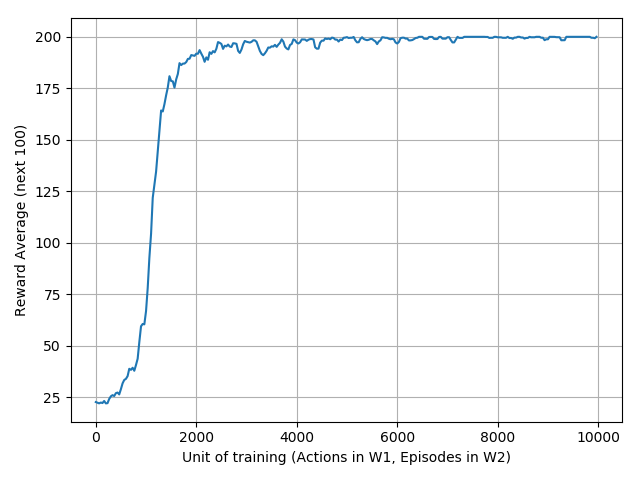
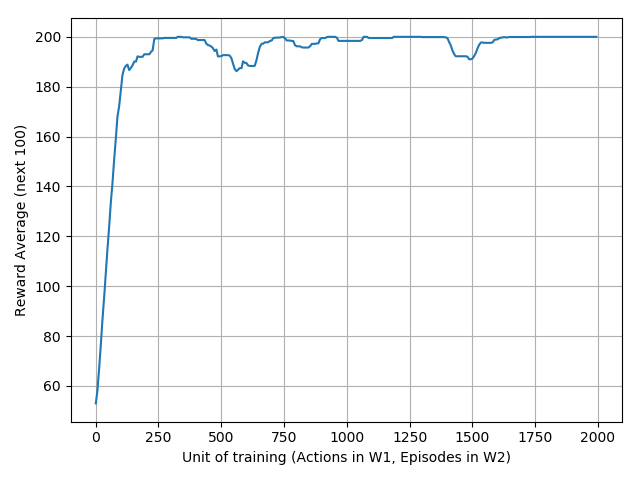
fix a2c implementation

diff --git a/algorithms/A2C.py b/algorithms/A2C.py
@@ -64,14 +64,12 @@ class A2C(object):
         self.build_actor_critic()
         self.build_placeholder()
         self.build_loss()
-        self.build_copy_op()
         self.build_step()
         self.build_summary()
     
     def build_actor_critic(self):
         self.actor = Actor_(self.hidden_dims, self.n_action, self.scope_pre+'actor')
         self.critic = VNetwork(self.hidden_dims, self.scope_pre+'critic')
-        self.critic_target = VNetwork(self.hidden_dims, self.scope_pre+'target_critic')
 
     def build_placeholder(self):
         self.states = tf.placeholder(tf.float32, shape=[None, self.state_dim])
@@ -81,22 +79,13 @@ class A2C(object):
         self.are_non_terminal = tf.placeholder(tf.float32, shape=[None])
         self.training = tf.placeholder(tf.bool)
     
-    def build_copy_op(self):
-        self.init_critic, self.update_critic = get_target_updates(
-            tf.get_collection(tf.GraphKeys.TRAINABLE_VARIABLES, scope=self.scope_pre+'critic'),
-            tf.get_collection(tf.GraphKeys.TRAINABLE_VARIABLES, scope=self.scope_pre+'target_critic'), self.tau)
-
     def build_loss(self):
-        #with tf.variable_scope(self.scope_pre+'normalize_states'):
-        #    bn = tf.layers.BatchNormalization(_reuse=tf.AUTO_REUSE)
-        #    states = bn.apply(self.states, training=self.training)
-        #    nexts = bn.apply(self.nexts, training=self.training)
         states = self.states
         nexts = self.nexts
         batch_size = tf.shape(states)[0]
         batch_indices = tf.range(batch_size,dtype=tf.int32)[:, None]
         target_value = tf.stop_gradient(self.rewards[:, None]+self.are_non_terminal[:, None] * \
-                   np.power(self.gamma, self.N) * self.critic_target(nexts))
+                   np.power(self.gamma, self.N) * self.critic(nexts))
         value = self.critic(states)
         self.critic_loss = tf.losses.mean_squared_error(value, target_value)
         self.logits = self.actor(states)
@@ -104,9 +93,8 @@ class A2C(object):
         log_pi = tf.log(self.pi)
         action_indices = tf.concat([batch_indices, self.actions], axis=1)
         log_action_prob = tf.gather_nd(log_pi, action_indices)[:, None]
-        advantage = target_value-value
+        advantage = tf.stop_gradient(target_value-value)
         pg_loss = advantage*log_action_prob
-        #entropy_loss = -0.01*self.pi*log_pi
         self.actor_loss = -tf.reduce_mean(pg_loss)
 
     def build_step(self):
@@ -131,11 +119,11 @@ class A2C(object):
     def train(self, sess, saver, summary_writer, progress_fd, model_path, batch_size=64, step=10, start_episode=0,
               train_episodes=1000, save_episodes=100, epsilon=0.3, apply_her=False, n_goals=10):
         total_rewards = []
-        sess.run([self.init_critic])
         for i_episode in tqdm(range(train_episodes), ncols=100):
             states, actions, returns, nexts, are_non_terminal, total_reward = self.collect_trajectory()
             append_summary(progress_fd, str(start_episode + i_episode) + ',{0:.2f}'.format(total_reward))
             total_rewards.append(total_reward)
+            perm = np.random.permutation(len(states))
             sess.run([self.critic_step],
                      feed_dict={self.states: states,
                                 self.actions: actions,
@@ -150,7 +138,6 @@ class A2C(object):
                                 self.nexts: nexts,
                                 self.are_non_terminal: are_non_terminal,
                                 self.training: True})
-            sess.run([self.update_critic])
             # summary_writer.add_summary(summary, global_step=self.global_step.eval())
             if (i_episode + 1) % save_episodes == 0:
                 saver.save(sess, model_path)

diff --git a/algorithms/QRA2C.py b/algorithms/QRA2C.py
@@ -39,19 +39,14 @@ class QRA2C(A2C):
     def build_actor_critic(self):
         self.actor = Actor_(self.hidden_dims, self.n_action, self.scope_pre+'actor')
         self.critic = QRVNetwork(self.hidden_dims, self.n_quantile, self.scope_pre+'critic')
-        self.critic_target = QRVNetwork(self.hidden_dims, self.n_quantile, self.scope_pre+'target_critic')
 
     def build_loss(self):
-        #with tf.variable_scope(self.scope_pre+'normalize_states'):
-        #    bn = tf.layers.BatchNormalization(_reuse=tf.AUTO_REUSE)
-        #    states = bn.apply(self.states, training=self.training)
-        #    nexts = bn.apply(self.nexts, training=self.training)
         states = self.states
         nexts = self.nexts
         batch_size = tf.shape(states)[0]
         batch_indices = tf.range(batch_size,dtype=tf.int32)[:, None]
         target_Z = tf.stop_gradient(self.rewards[:,None]+self.are_non_terminal[:, None] * \
-                   np.power(self.gamma, self.N) * self.critic_target(nexts))
+                   np.power(self.gamma, self.N) * self.critic(nexts))
         Z = self.critic(states)
         bellman_errors = tf.expand_dims(target_Z, axis=2) - tf.expand_dims(Z, axis=1)
         huber_loss_case_one = tf.to_float(tf.abs(bellman_errors) <= self.kappa) * 0.5 * bellman_errors ** 2
@@ -63,6 +58,7 @@ class QRA2C(A2C):
         quantile_huber_loss = (tf.abs(quantiles - tf.stop_gradient(tf.to_float(bellman_errors < 0))) * huber_loss) / \
                               self.kappa
         self.critic_loss = tf.reduce_mean(tf.reduce_mean(tf.reduce_sum(quantile_huber_loss, axis=2), axis=1), axis=0)
+
         self.logits = self.actor(states)
         self.pi = tf.nn.softmax(self.logits, axis=-1)
         log_pi = tf.log(self.pi)

diff --git a/main.py b/main.py
@@ -25,7 +25,7 @@ def parse_arguments():
 	                    help='Set this to False when training and True when evaluating.')
 	parser.add_argument('--restore', default=False, action='store_true', help='Restore training')
 	parser.add_argument('--reward-type', default='sparse', help='[sparse, dense]')
-	parser.add_argument('--hidden-dims', default=[64, 64], type=int, nargs='+', help='Hidden dimension of network')
+	parser.add_argument('--hidden-dims', default=[256, 256], type=int, nargs='+', help='Hidden dimension of network')
 	parser.add_argument('--gamma', default=0.99, type=float, help='Reward discount')
 	parser.add_argument('--tau', default=1e-2, type=float, help='Soft parameter update tau')
 	parser.add_argument('--kappa', default=1.0, type=float, help='Kappa used in quantile Huber loss')
